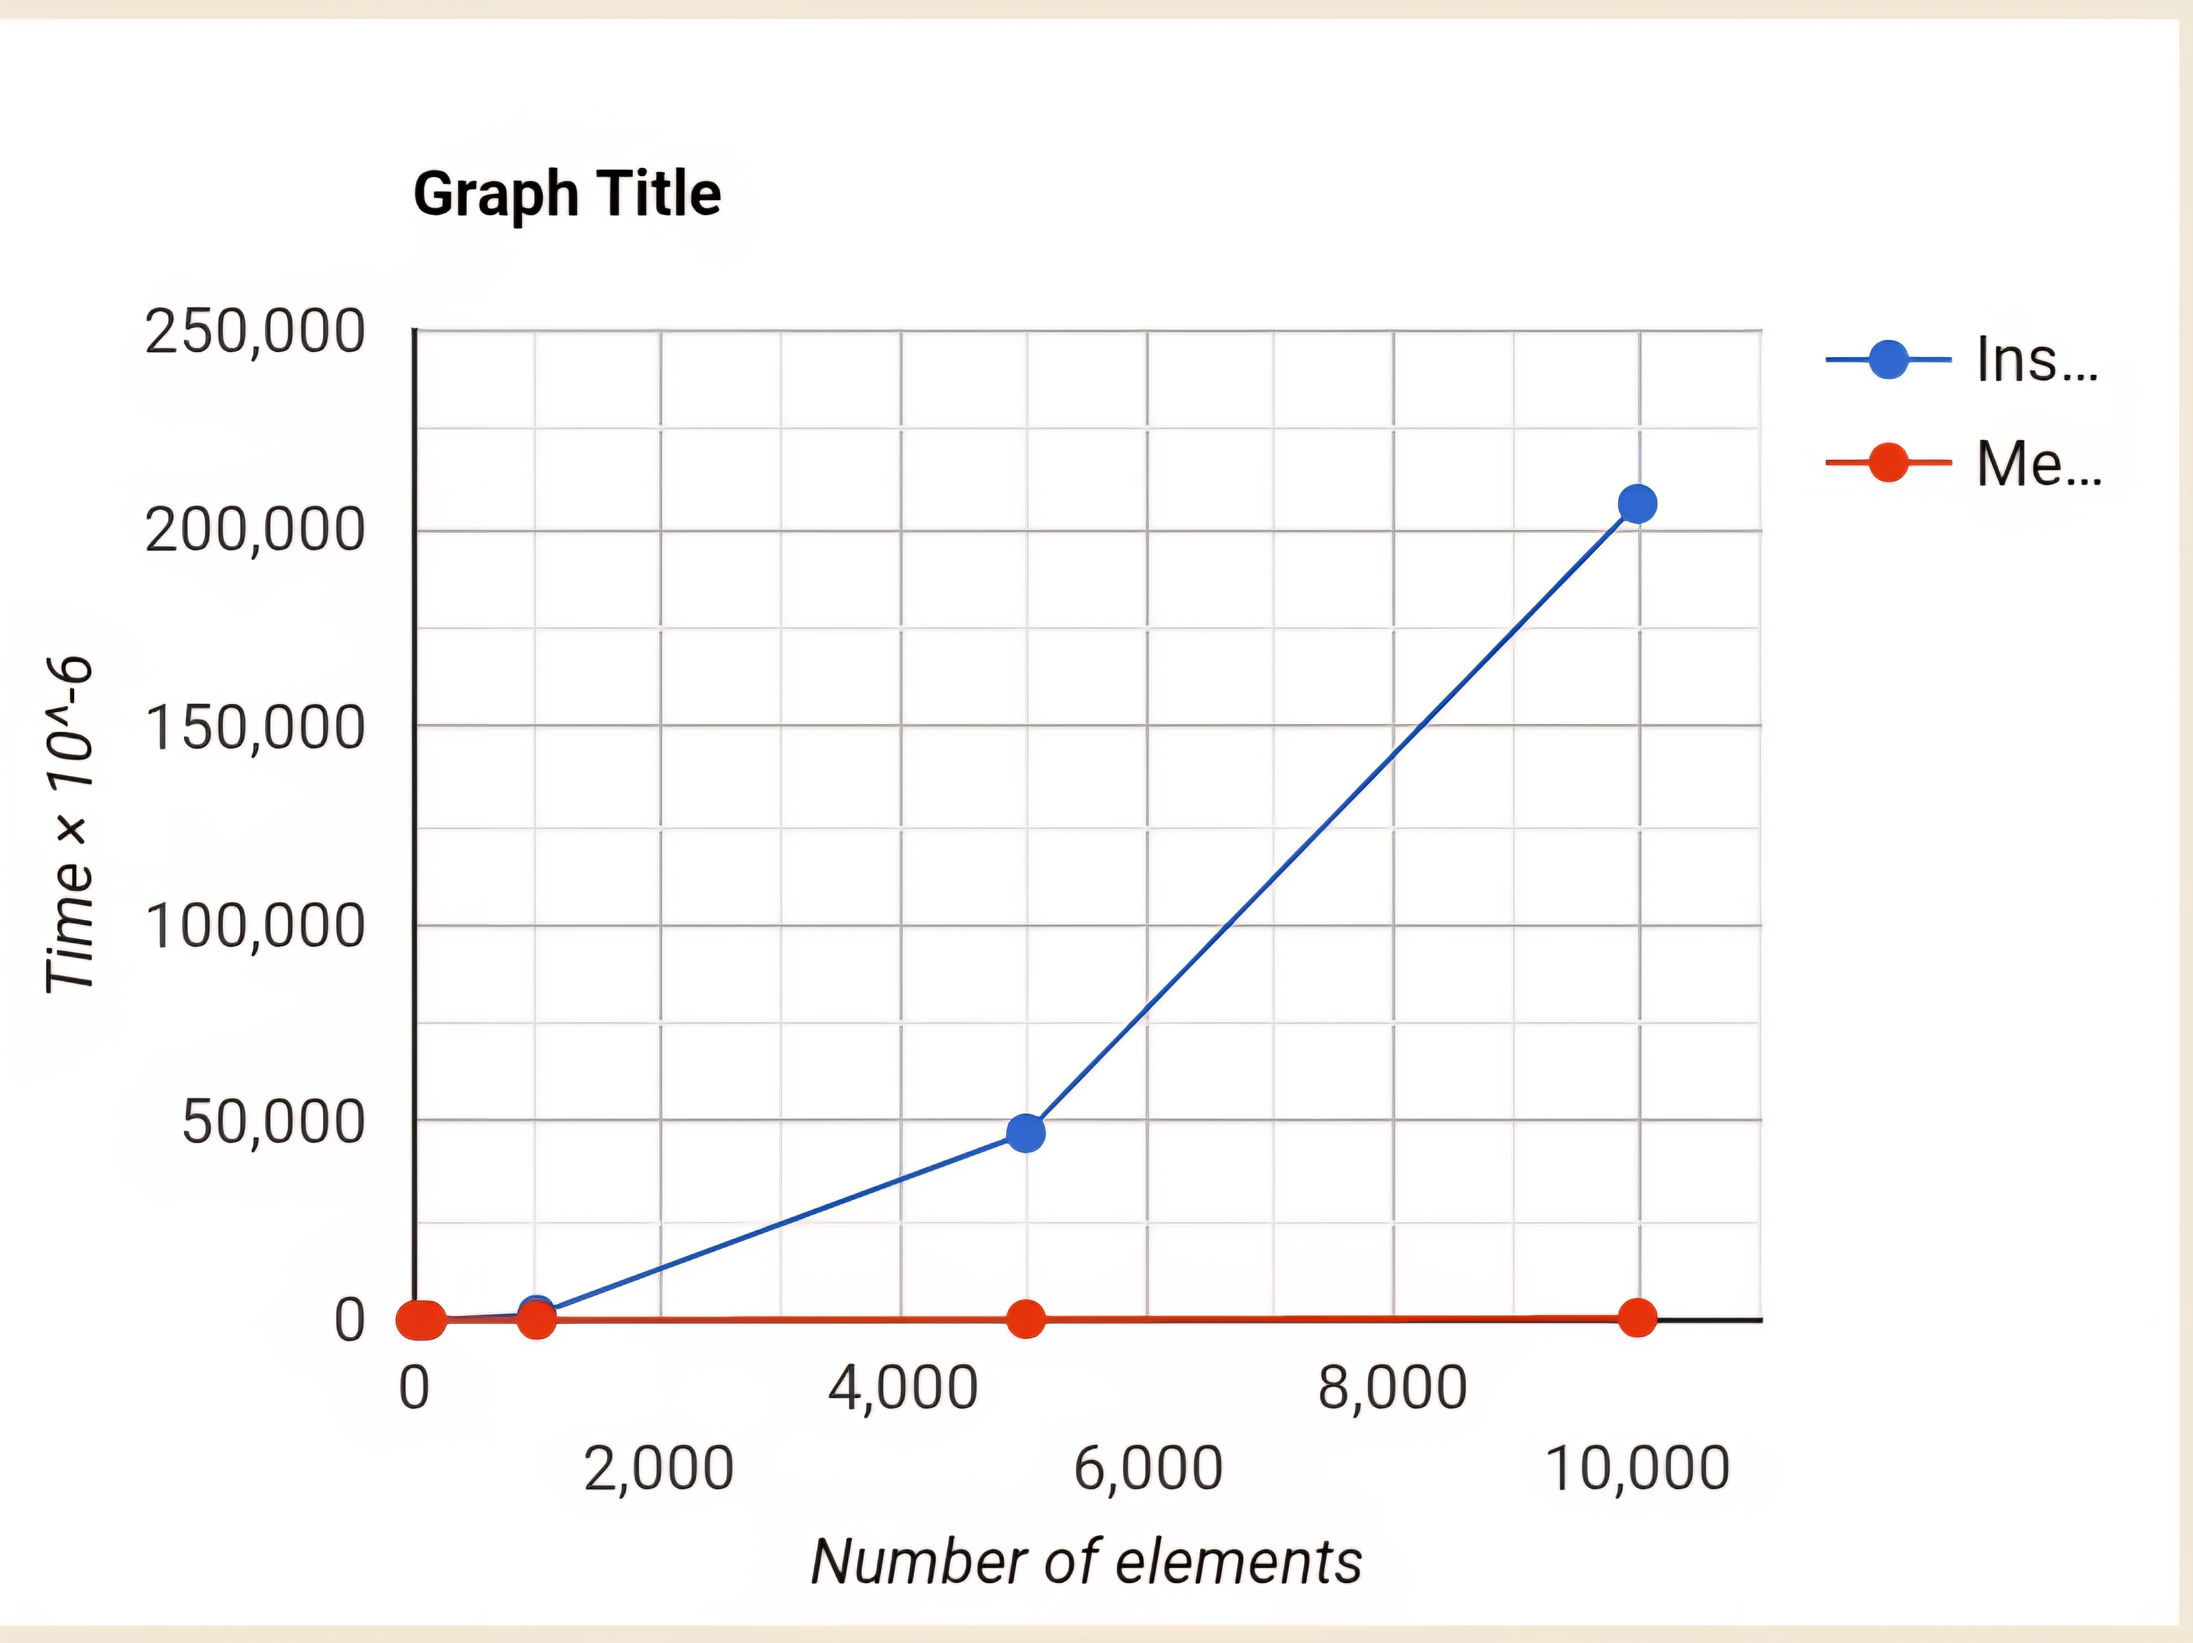
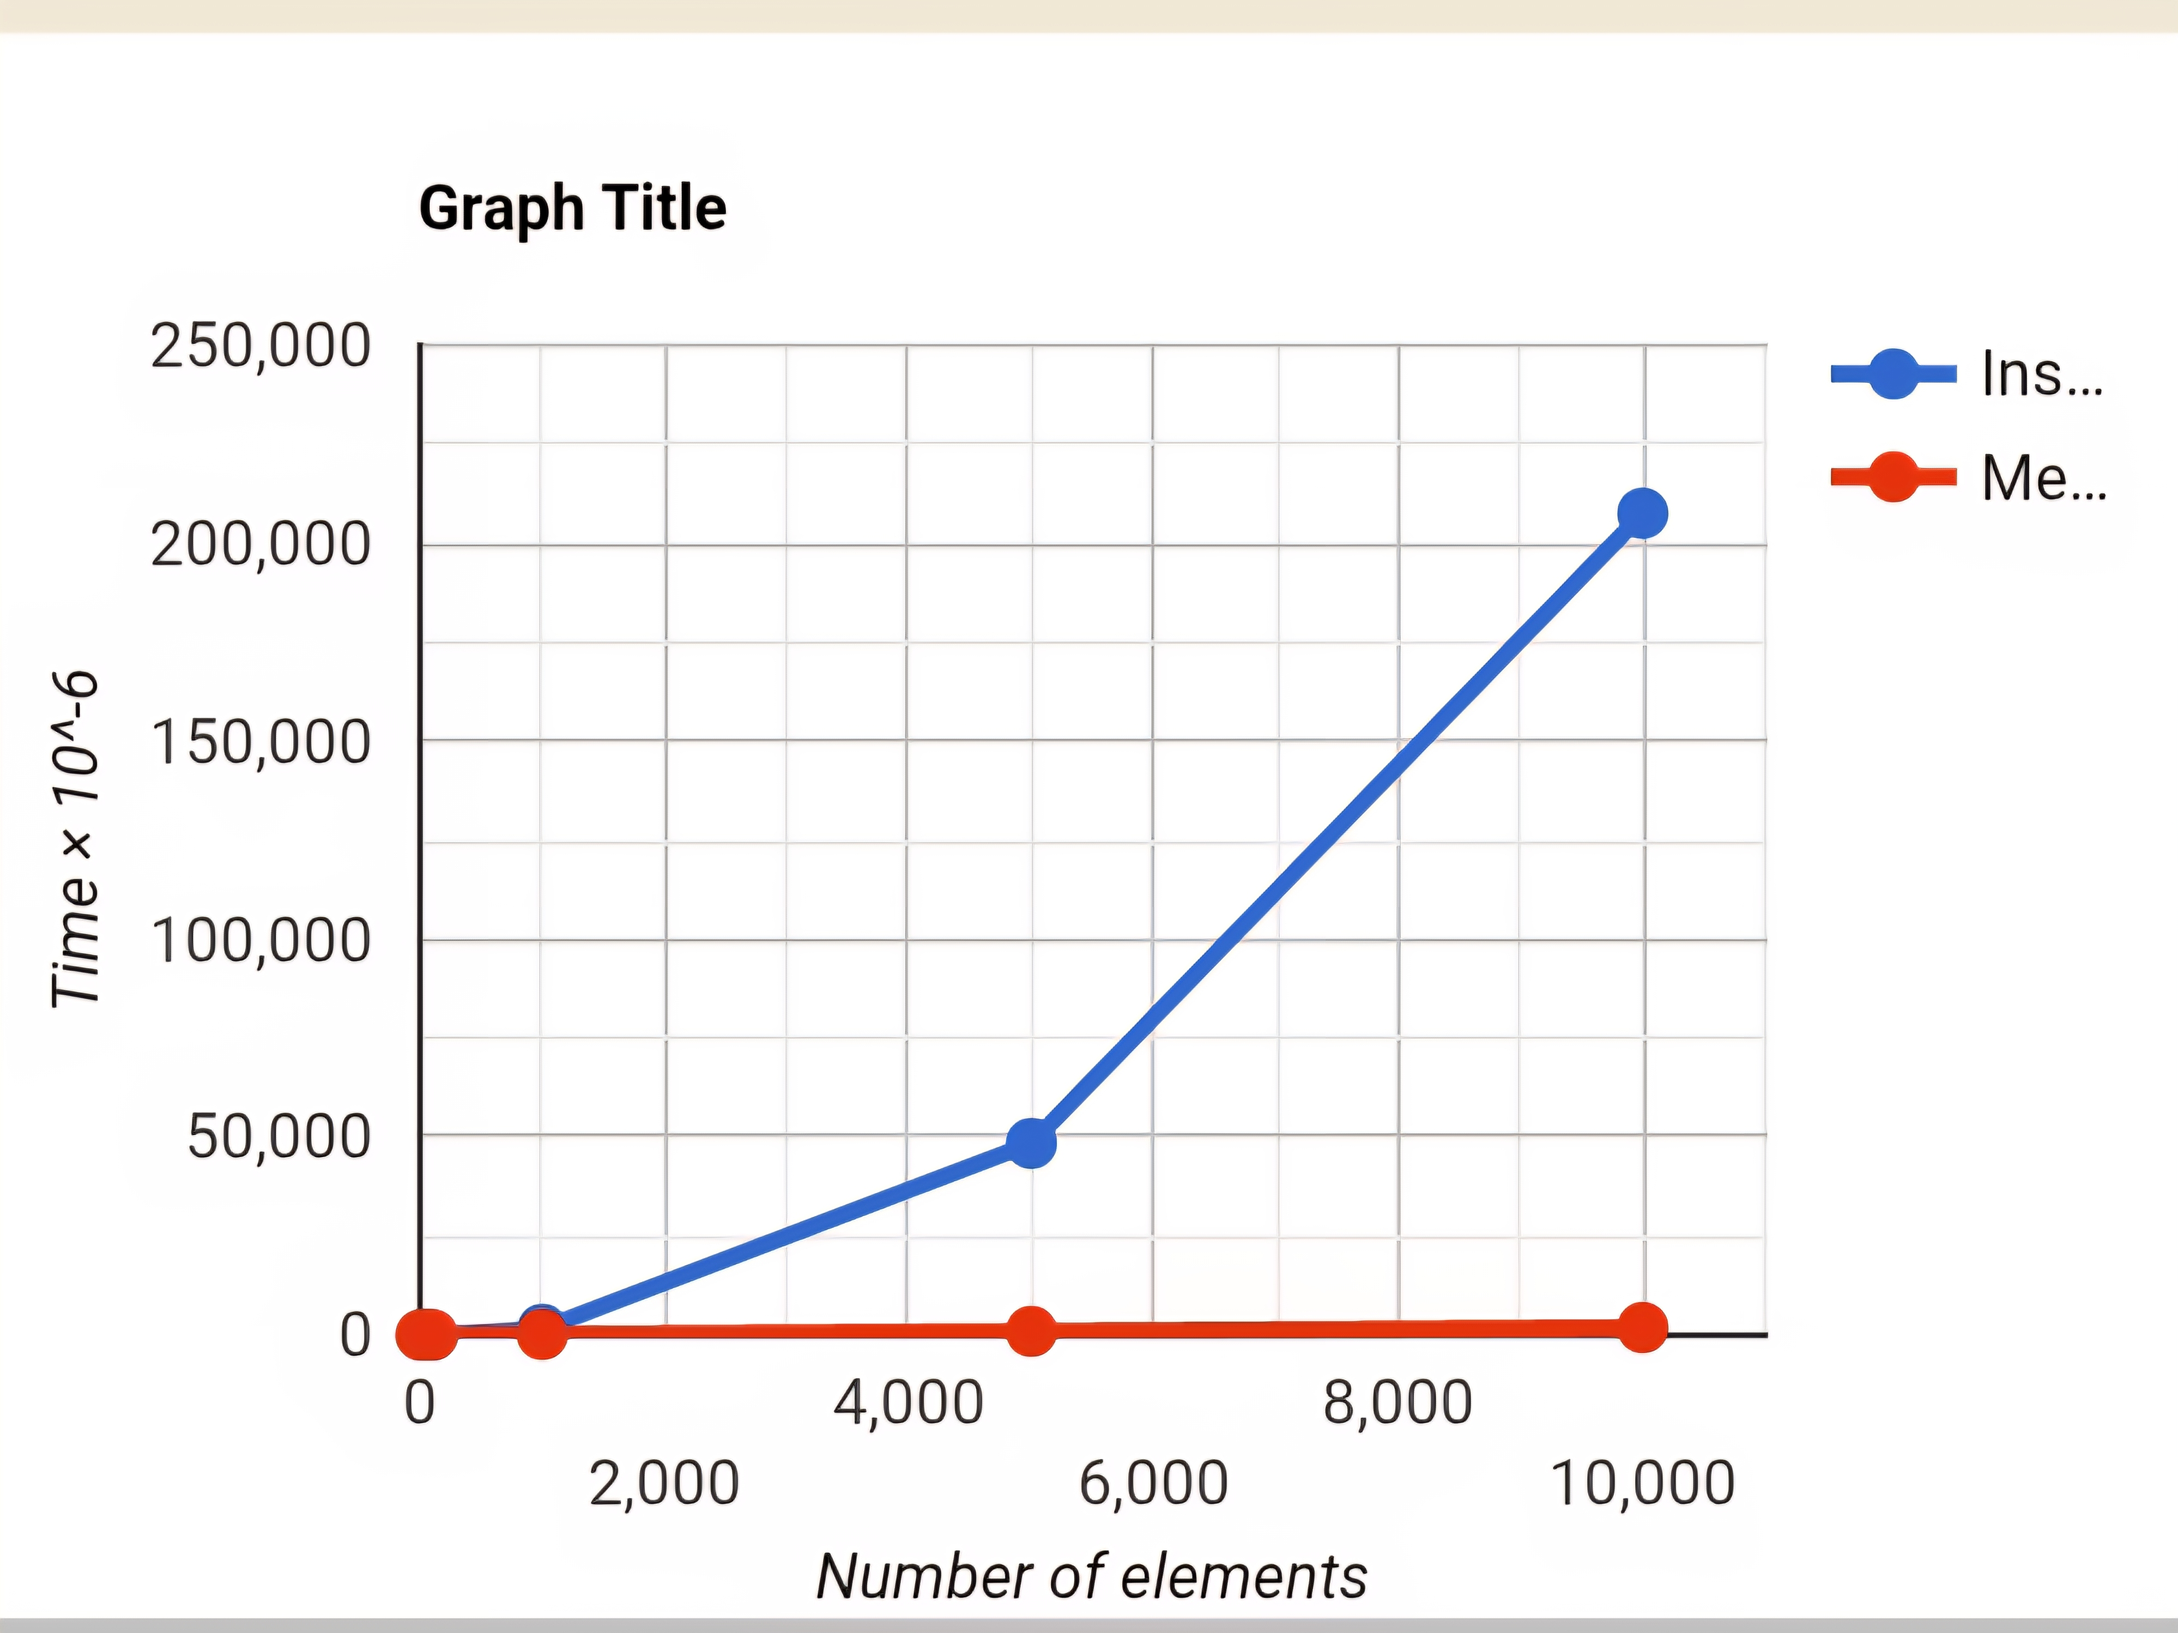
fixed merge sort and new tests

diff --git a/src/sort.c b/src/sort.c
@@ -24,7 +24,7 @@ void insertion_sort_stack(Stack *s) {
 
 /* -------- MERGE SORT (node-based) -------- */
 
-static Node *merge(Node *a, Node *b) {
+/*static Node *merge(Node *a, Node *b) {
     Node dummy;
     Node *tail = &dummy;
     dummy.next = NULL;
@@ -67,4 +67,58 @@ static Node *merge_sort_nodes(Node *head) {
 
 void merge_sort_stack(Stack *s) {
     s->top = merge_sort_nodes(s->top);
+}
+*/
+
+void split_stack(Stack *src, Stack *a, Stack *b) {
+    int toggle = 0;
+    while (!stack_is_empty(src)) {
+        if (toggle)
+            stack_push_node(a, stack_pop_node(src));
+        else
+            stack_push_node(b, stack_pop_node(src));
+        toggle = !toggle;
+    }
+}
+
+Stack merge_stacks(Stack *a, Stack *b) {
+    Stack tmp, result;
+    stack_init(&tmp);
+    stack_init(&result);
+
+    while (!stack_is_empty(a) && !stack_is_empty(b)) {
+        if (a->top->data <= b->top->data)
+            stack_push_node(&tmp, stack_pop_node(a));
+        else
+            stack_push_node(&tmp, stack_pop_node(b));
+    }
+
+    while (!stack_is_empty(a))
+        stack_push_node(&tmp, stack_pop_node(a));
+
+    while (!stack_is_empty(b))
+        stack_push_node(&tmp, stack_pop_node(b));
+
+    /* reverse tmp into result */
+    while (!stack_is_empty(&tmp))
+        stack_push_node(&result, stack_pop_node(&tmp));
+
+    return result;
+}
+
+void merge_sort_stack(Stack *s) {
+    if (!s->top || !s->top->next)
+        return;
+
+    Stack a, b;
+    stack_init(&a);
+    stack_init(&b);
+
+    split_stack(s, &a, &b);
+
+    merge_sort_stack(&a);
+    merge_sort_stack(&b);
+
+    Stack merged = merge_stacks(&a, &b);
+    *s = merged;
 }

diff --git a/src/io.c b/src/io.c
@@ -132,7 +132,6 @@ int IO(int argc, char **argv) {
 
     if (stack_is_empty(&s)) {
         printf("Нет данных\n");
-        return 0;
     }
 
     Stack tmp_reverse = copy_stack(&s);
@@ -215,10 +214,13 @@ int IO(int argc, char **argv) {
 		if (!stack_is_empty(&s)) {
  		       free(stack_pop_node(&s));
 		       elementsNum -= 1;
-		}
+		       save_stack("unsorted.txt", &s);
+               	       printf("стек после удаление:\n");
+                       print_stack(&s);
+		}else {
     		save_stack("unsorted.txt", &s);
-		printf("стек после удаление:\n");
-                print_stack(&s);
+		printf("стек пустой\n");
+                }
 	   }
 	   else if (option == 3){
 		elementsNum = 0;

diff --git a/src/sort.h b/src/sort.h
@@ -4,6 +4,9 @@
 #include "stack.h"
 
 void insertion_sort_stack(Stack *s);
+//void merge_sort_stack(Stack *s);
+void split_stack(Stack *src, Stack *a, Stack *b);
+Stack merge_stacks(Stack *a, Stack *b);
 void merge_sort_stack(Stack *s);
 
 #endif
